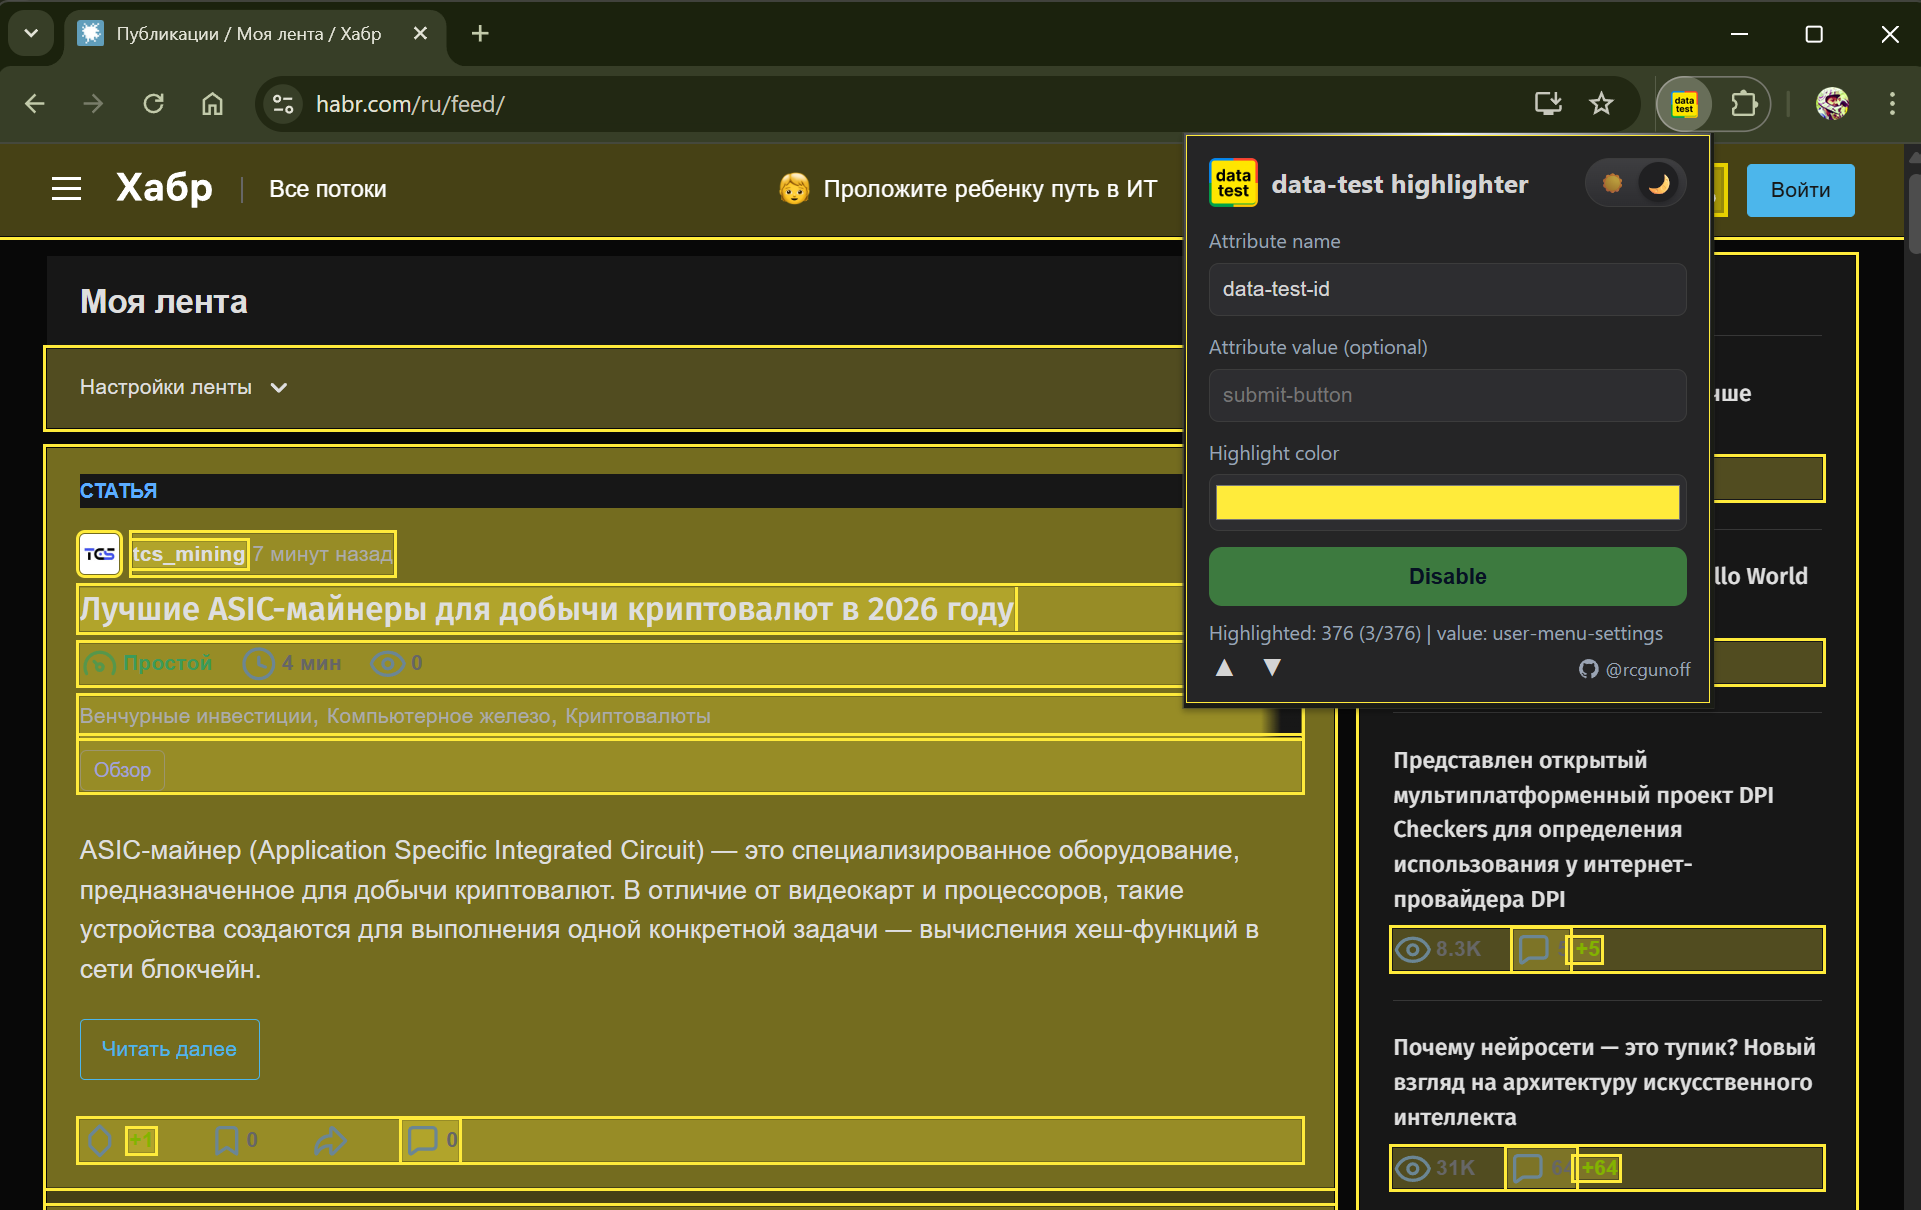
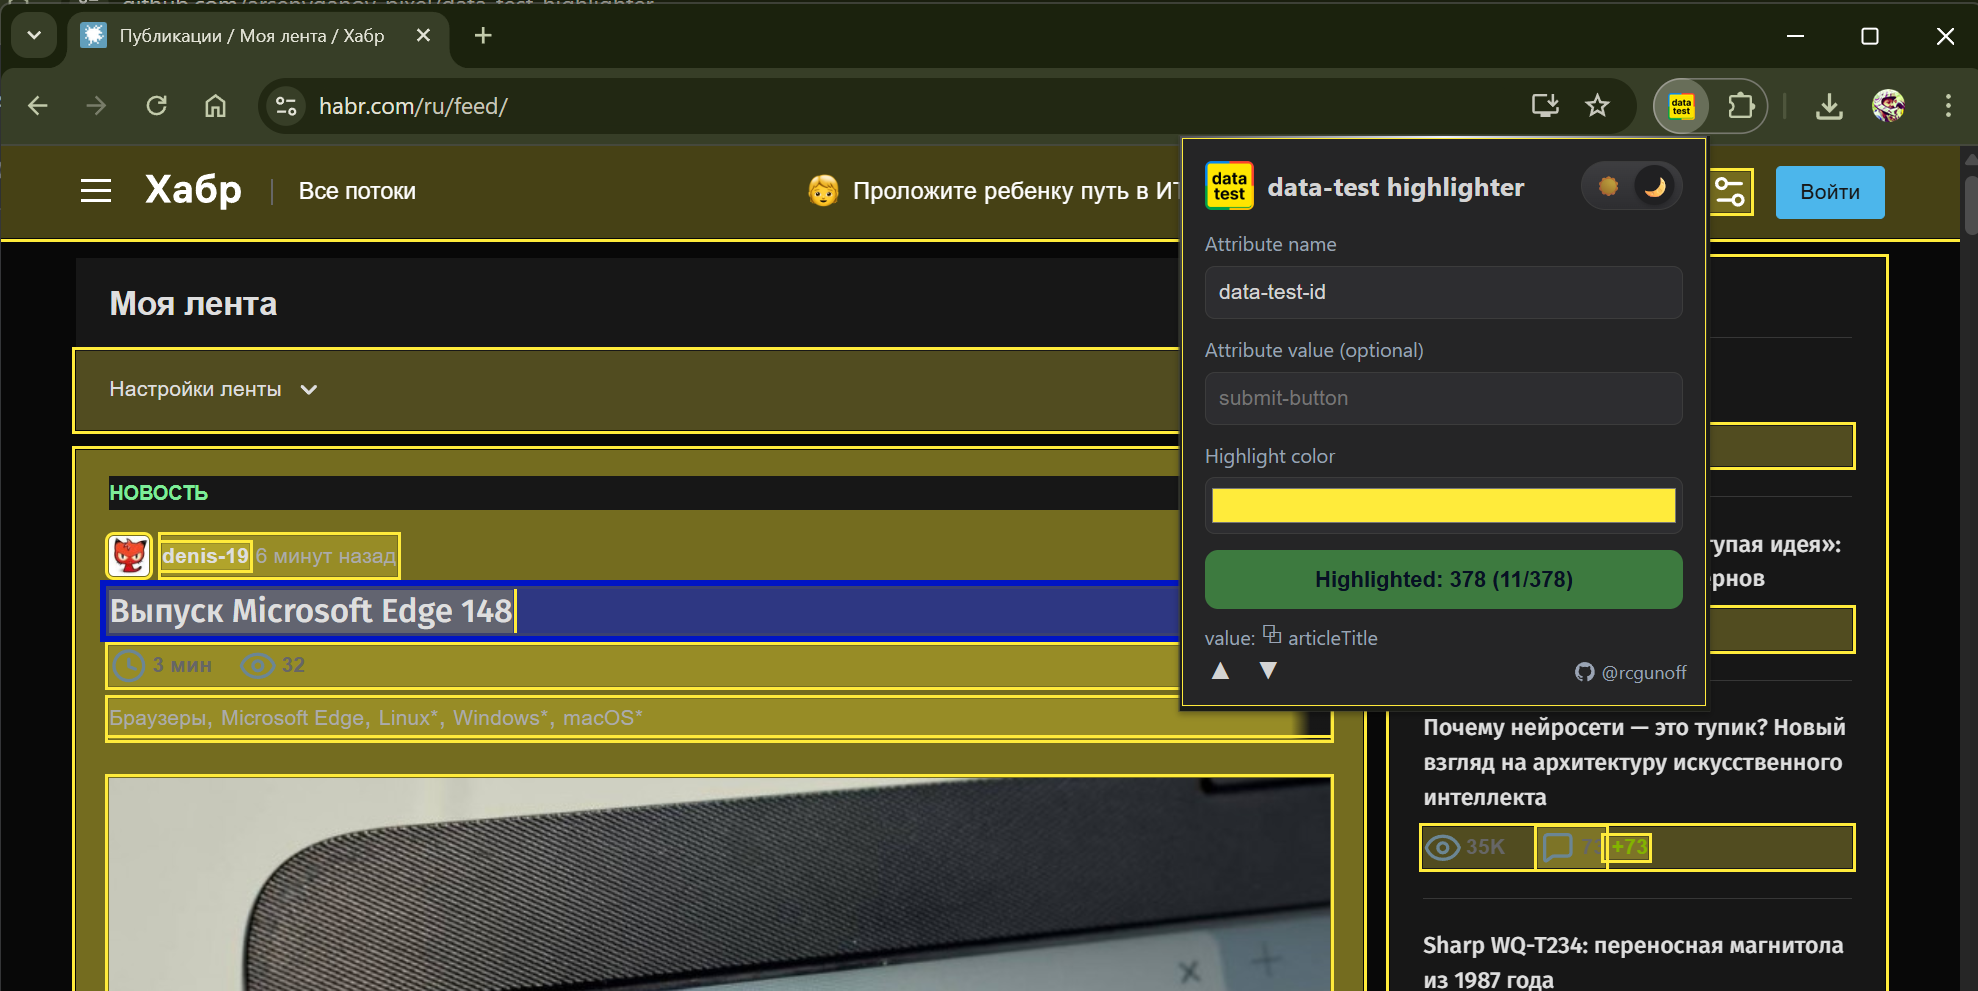
1.0.1-ui-updates

diff --git a/popup.js b/popup.js
@@ -14,13 +14,55 @@ const els = {
   themeToggle: document.getElementById('themeToggle'),
   focusPrev: document.getElementById('focusPrev'),
   focusNext: document.getElementById('focusNext'),
+  statusLine: document.getElementById('statusLine'),
+  statusLabel: document.getElementById('statusLabel'),
   status: document.getElementById('status'),
+  copyValueButton: document.getElementById('copyValueButton'),
+  copyToast: document.getElementById('copyToast'),
 };
 
 let currentSettings = { ...DEFAULT_SETTINGS };
 let systemPrefersDark = window.matchMedia('(prefers-color-scheme: dark)');
 let highlightedCount = 0;
+let focusedHighlightedIndex = null;
 let autoFocusedAttributeValue = '';
+let copiedValueSource = '';
+let copyToastTimer = null;
+
+function showCopyToast(message) {
+  if (!els.copyToast) {
+    return;
+  }
+
+  if (copyToastTimer) {
+    clearTimeout(copyToastTimer);
+  }
+
+  els.copyToast.textContent = message;
+  els.copyToast.classList.add('is-visible');
+
+  copyToastTimer = setTimeout(() => {
+    els.copyToast.classList.remove('is-visible');
+  }, 1400);
+}
+
+function updateValueHoverTitle() {
+  requestAnimationFrame(() => {
+    const isValueMode = els.statusLabel.textContent === 'value:' && Boolean(els.status.textContent);
+    if (!isValueMode) {
+      els.status.removeAttribute('title');
+      return;
+    }
+
+    const isOverflowing = els.status.scrollWidth > els.status.clientWidth;
+    if (isOverflowing) {
+      els.status.title = els.status.textContent;
+      return;
+    }
+
+    els.status.removeAttribute('title');
+  });
+}
 
 function renderFocusControls() {
   const enabled = currentSettings.enabled && highlightedCount > 0;
@@ -50,30 +92,64 @@ function isValidAttributeName(name) {
   return /^[^\s"'<>\/=]+$/.test(name);
 }
 
-function setStatus(message) {
+function setStatus(message, { value = false } = {}) {
+  if (value && message) {
+    copiedValueSource = message;
+    els.statusLine.classList.add('has-value');
+    els.statusLabel.textContent = 'value:';
+    els.status.textContent = message;
+    els.copyValueButton.hidden = false;
+    els.copyValueButton.disabled = false;
+    updateValueHoverTitle();
+    return;
+  }
+
+  copiedValueSource = '';
+  els.statusLine.classList.remove('has-value');
+  els.statusLabel.textContent = '';
   els.status.textContent = message;
+  els.copyValueButton.hidden = true;
+  els.copyValueButton.disabled = true;
+  updateValueHoverTitle();
 }
 
-function formatHighlightedStatus(total, focusedIndex = null, focusedAttributeValue = '') {
+function formatToggleLabel(total, focusedIndex = null) {
   if (typeof total !== 'number') {
     return 'Highlighted: 0';
   }
 
-  const suffix = focusedAttributeValue ? `  |  value: ${focusedAttributeValue}` : '';
-
   if (focusedIndex === null) {
-    return `Highlighted: ${total}${suffix}`;
+    return `Highlighted: ${total}`;
   }
 
   const totalText = String(total);
   const currentText = String(focusedIndex + 1);
-  return `Highlighted: ${total} (${currentText}/${totalText})${suffix}`;
+  return `Highlighted: ${total} (${currentText}/${totalText})`;
 }
 
 function renderToggle(enabled) {
   els.toggleButton.classList.toggle('on', enabled);
   els.toggleButton.classList.toggle('off', !enabled);
-  els.toggleButton.textContent = enabled ? 'Disable' : 'Enable';
+  els.toggleButton.textContent = enabled
+    ? formatToggleLabel(highlightedCount, focusedHighlightedIndex)
+    : 'Highlight is disabled';
+}
+
+async function handleCopyValue() {
+  if (!copiedValueSource) {
+    return;
+  }
+
+  try {
+    await navigator.clipboard.writeText(copiedValueSource);
+    els.copyValueButton.textContent = '✓';
+    showCopyToast('Value copied to clipboard');
+    setTimeout(() => {
+      els.copyValueButton.textContent = '⧉';
+    }, 900);
+  } catch {
+    setStatus('Cannot copy value.');
+  }
 }
 
 async function getActiveTabId() {
@@ -85,7 +161,9 @@ async function sendSettingsToActiveTab() {
   const tabId = await getActiveTabId();
   if (!tabId) {
     highlightedCount = 0;
+    focusedHighlightedIndex = null;
     renderFocusControls();
+    renderToggle(currentSettings.enabled);
     setStatus('No active tab found.');
     return;
   }
@@ -98,28 +176,36 @@ async function sendSettingsToActiveTab() {
 
     if (!response?.ok) {
       highlightedCount = 0;
+      focusedHighlightedIndex = null;
       renderFocusControls();
+      renderToggle(currentSettings.enabled);
       setStatus(response?.error || 'Failed to apply settings.');
       return;
     }
 
     if (!currentSettings.enabled) {
       highlightedCount = 0;
+      focusedHighlightedIndex = null;
       renderFocusControls();
-      setStatus('Highlight is disabled.');
+      renderToggle(false);
+      setStatus('');
       return;
     }
 
     highlightedCount = response.matchCount || 0;
+    focusedHighlightedIndex = null;
     renderFocusControls();
+    renderToggle(true);
     const userHasValue = Boolean(els.attributeValue.value.trim());
     if (userHasValue) {
       autoFocusedAttributeValue = '';
     }
-    setStatus(formatHighlightedStatus(highlightedCount, null, autoFocusedAttributeValue));
+    setStatus(autoFocusedAttributeValue, { value: true });
   } catch (error) {
     highlightedCount = 0;
+    focusedHighlightedIndex = null;
     renderFocusControls();
+    renderToggle(currentSettings.enabled);
     setStatus('Please refresh the page and try again.');
   }
 }
@@ -214,8 +300,10 @@ async function focusHighlighted(direction) {
     autoFocusedAttributeValue = userHasValue ? '' : response.focusedAttributeValue || '';
 
     highlightedCount = response.total || highlightedCount;
+    focusedHighlightedIndex = response.currentIndex;
     renderFocusControls();
-    setStatus(formatHighlightedStatus(response.total, response.currentIndex, autoFocusedAttributeValue));
+    renderToggle(currentSettings.enabled);
+    setStatus(autoFocusedAttributeValue, { value: true });
   } catch {
     setStatus('Please refresh the page and try again.');
   }
@@ -249,7 +337,7 @@ async function init() {
   renderToggle(currentSettings.enabled);
   renderThemeButton();
   renderFocusControls();
-  setStatus(currentSettings.enabled ? 'Highlight is active.' : 'Highlight is disabled.');
+  setStatus('');
 
   els.attributeName.addEventListener('input', handleInputChange);
   els.attributeValue.addEventListener('input', handleInputChange);
@@ -258,6 +346,7 @@ async function init() {
   els.themeToggle.addEventListener('click', handleThemeToggle);
   els.focusPrev.addEventListener('click', handleFocusPrev);
   els.focusNext.addEventListener('click', handleFocusNext);
+  els.copyValueButton.addEventListener('click', handleCopyValue);
 
   if (currentSettings.enabled) {
     await sendSettingsToActiveTab();

diff --git a/popup.html b/popup.html
@@ -18,7 +18,7 @@
 
       <label class="field">
         <span>Attribute name</span>
-        <input id="attributeName" type="text" placeholder="data-testid" autocomplete="off" />
+        <input id="attributeName" type="text" placeholder="data-test-id" autocomplete="off" />
       </label>
 
       <label class="field">
@@ -31,13 +31,18 @@
         <input id="highlightColor" type="color" value="#ffeb3b" />
       </label>
 
-      <button id="toggleButton" class="toggle off" type="button">Enable</button>
+      <button id="toggleButton" class="toggle off" type="button">Highlight is disabled</button>
 
       <div class="status-row">
-        <p id="status" class="status" aria-live="polite"></p>
+        <div id="statusLine" class="status-line" aria-live="polite">
+          <span id="statusLabel" class="status-label"></span>
+          <button id="copyValueButton" class="copy-btn" type="button" title="Copy value" aria-label="Copy value">⧉</button>
+          <span id="status" class="status"></span>
+        </div>
         <div class="focus-controls" aria-label="Highlighted elements navigation">
           <button id="focusPrev" class="focus-btn" type="button" title="Previous highlighted element">▲</button>
           <button id="focusNext" class="focus-btn" type="button" title="Next highlighted element">▼</button>
+          <div id="copyToast" class="copy-toast" role="status" aria-live="polite" aria-atomic="true"></div>
           <a class="github-link" href="https://github.com/arsenyganov-pixel" target="_blank" rel="noopener noreferrer">
             <svg class="github-icon" viewBox="0 0 16 16" aria-hidden="true" focusable="false">
               <path fill="currentColor" d="M8 0a8 8 0 0 0-2.53 15.59c.4.07.55-.17.55-.38l-.01-1.49c-2.01.44-2.53-.49-2.69-.94-.09-.23-.48-.94-.82-1.13-.28-.15-.68-.52-.01-.53.63-.01 1.08.58 1.23.82.72 1.21 1.87.87 2.33.66.07-.52.28-.87.5-1.07-1.78-.2-3.64-.89-3.64-3.95 0-.87.31-1.58.82-2.14-.08-.2-.36-1.02.08-2.12 0 0 .67-.21 2.2.82a7.5 7.5 0 0 1 4 0c1.53-1.04 2.2-.82 2.2-.82.44 1.1.16 1.92.08 2.12.51.56.82 1.27.82 2.14 0 3.07-1.87 3.75-3.65 3.95.29.25.54.73.54 1.48l-.01 2.2c0 .21.14.46.55.38A8 8 0 0 0 8 0Z"></path>

diff --git a/content.js b/content.js
@@ -56,62 +56,12 @@ function getFocusedColor(color) {
   const g = parseInt(hex.slice(2, 4), 16);
   const b = parseInt(hex.slice(4, 6), 16);
 
-  const max = Math.max(r, g, b) / 255;
-  const min = Math.min(r, g, b) / 255;
-  const delta = max - min;
+  const invR = 255 - r;
+  const invG = 255 - g;
+  const invB = 255 - b;
 
-  let h = 0;
-  let s = 0;
-  const l = (max + min) / 2;
-
-  if (delta > 0) {
-    s = delta / (1 - Math.abs(2 * l - 1));
-    if (max === r / 255) {
-      h = ((g / 255 - b / 255) / delta) % 6;
-    } else if (max === g / 255) {
-      h = (b / 255 - r / 255) / delta + 2;
-    } else {
-      h = (r / 255 - g / 255) / delta + 4;
-    }
-    h = Math.round(h * 60);
-    if (h < 0) {
-      h += 360;
-    }
-  }
-
-  const boostedS = Math.min(1, s + 0.38);
-  const boostedL = Math.max(0.22, Math.min(0.5, l - 0.16));
-
-  const c = (1 - Math.abs(2 * boostedL - 1)) * boostedS;
-  const x = c * (1 - Math.abs(((h / 60) % 2) - 1));
-  const m = boostedL - c / 2;
-
-  let rr = 0;
-  let gg = 0;
-  let bb = 0;
-
-  if (h < 60) {
-    rr = c;
-    gg = x;
-  } else if (h < 120) {
-    rr = x;
-    gg = c;
-  } else if (h < 180) {
-    gg = c;
-    bb = x;
-  } else if (h < 240) {
-    gg = x;
-    bb = c;
-  } else if (h < 300) {
-    rr = x;
-    bb = c;
-  } else {
-    rr = c;
-    bb = x;
-  }
-
-  const toHex = (value) => Math.round((value + m) * 255).toString(16).padStart(2, '0');
-  return `#${toHex(rr)}${toHex(gg)}${toHex(bb)}`;
+  const toHex = (value) => value.toString(16).padStart(2, '0');
+  return `#${toHex(invR)}${toHex(invG)}${toHex(invB)}`;
 }
 
 function clearHighlight() {

diff --git a/popup.css b/popup.css
@@ -189,14 +189,53 @@ body {
   background: var(--toggle-on);
 }
 
+.status-line {
+  width: 100%;
+  min-height: 16px;
+  display: flex;
+  align-items: flex-start;
+  gap: 4px;
+  font-size: 12px;
+  line-height: 1.2;
+  color: var(--muted);
+}
+
+.status-label {
+  flex: 0 0 auto;
+}
+
 .status {
   margin: 0;
-  min-height: 16px;
-  min-width: 24ch;
-  font-size: 12px;
+  min-width: 0;
+  flex: 1 1 auto;
+  overflow-wrap: anywhere;
+  word-break: break-word;
+}
+
+.copy-btn {
+  border: none;
+  background: transparent;
   color: var(--muted);
+  font-size: 12px;
   line-height: 1;
-  white-space: nowrap;
+  width: 14px;
+  height: 14px;
+  display: inline-flex;
+  align-items: center;
+  justify-content: center;
+  padding: 0;
+  cursor: pointer;
+  flex: 0 0 auto;
+  margin-top: 1px;
+}
+
+.copy-btn:hover:not(:disabled) {
+  color: var(--accent);
+}
+
+.copy-btn:disabled {
+  opacity: 0.45;
+  cursor: default;
 }
 
 .status-row {
@@ -206,6 +245,24 @@ body {
   align-items: flex-start;
   justify-content: flex-start;
   gap: 4px;
+}
+
+.copy-toast {
+  margin-left: 4px;
+  opacity: 0;
+  transform: translateY(-2px);
+  transition: opacity 140ms ease, transform 140ms ease;
+  font-size: 11px;
+  color: var(--accent);
+  min-height: 11px;
+  line-height: 1;
+  white-space: nowrap;
+  pointer-events: none;
+}
+
+.copy-toast.is-visible {
+  opacity: 1;
+  transform: translateY(0);
 }
 
 .focus-controls {

diff --git a/README.md b/README.md
@@ -15,7 +15,9 @@ The extension finds elements on the active page by:
 - attribute name (required)
 - attribute value (optional)
 
-Then it highlights matching elements with your selected color and lets you navigate through matched elements with built-in focus controls.
+Then it highlights matching elements with your selected color and lets you navigate through matched elements with built-in focus controls (▲/▼). The popup shows the current position in the result set (`Highlighted: total (current/total)`). The currently focused element is additionally emphasized in the page UI with an inverted outline color for faster visual tracking.
+
+When an element is focused, the popup also shows its attribute `value`, and you can copy that value with one click using the copy icon.
 
 It supports **live mode**: new matching elements added to DOM are highlighted automatically via `MutationObserver`.
 
